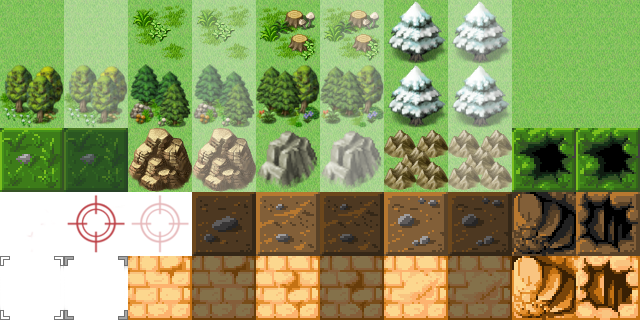
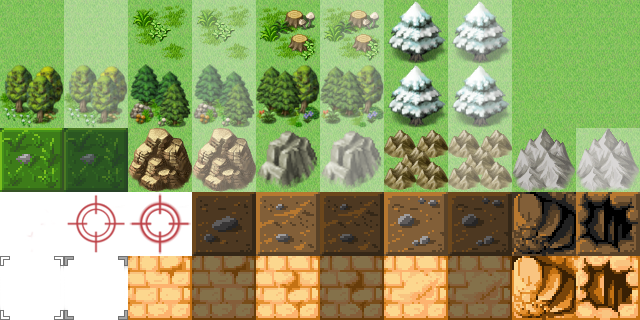
[update] range on rocket vehicle

Changed region(s): [[0.7812, 0.375, 1.0, 0.625], [0.1875, 0.625, 0.3125, 0.7812]]

diff --git a/public/lib/board.js b/public/lib/board.js
@@ -162,8 +162,8 @@
     this.grid[coor.i][coor.j].unit = undefined;
   };
 
-  Board.prototype.hasUnit = function(i, j) {
-    return this.grid[i][j].unit !== undefined;
+  Board.prototype.hasEnemyUnit = function(unit, i, j) {
+    return this.grid[i][j].unit !== undefined && this.grid[i][j].unit.color != unit.color;
   };
 
   ////////////////////////// SET UP THE GRID //////////////////////////
@@ -204,13 +204,6 @@
     a.forEach(function(coor) {
         that.grid[coor[0]][coor[1]].land = [land.grasslandForest1, land.grasslandForest2, land.grasslandForest3, land.grasslandBushes1, land.grasslandBushes2][utils.randomBoundBy(0, 5)];
     })
-    // for (var i = 0; i < this.grid.length; i++) {
-    //   for (var j = 0; j < this.grid[i].length; j++) {
-    //     if (utils.percentChance(10)) {
-    //       this.grid[i][j].land = [land.grasslandForest1, land.grasslandForest2][utils.randomBoundBy(0, 2)];
-    //     }
-    //   }
-    // }
   };
 
   Board.prototype.addRocks = function() {
@@ -219,13 +212,6 @@
     a.forEach(function(coor) {
         that.grid[coor[0]][coor[1]].land = land.grasslandRock;
     })
-    // for (var i = 0; i < this.grid.length; i++) {
-    //   for (var j = 0; j < this.grid[i].length; j++) {
-    //     if (utils.percentChance(5)) {
-    //       this.grid[i][j].land = land.grasslandRock;
-    //     }
-    //   }
-    // }
   };
 
   Board.prototype.addExplosions = function() {
@@ -296,6 +282,8 @@
       for (var j = 0; j < this.grid[i].length; j++) {
         tile = window.game.add.sprite(j * 64, i * 64, 'tiles');
         tile.frame = this.overlay[i][j].overlayFrame.default;
+        tile.alpha = 0;
+        window.game.add.tween(tile).to( { alpha: 1 }, 800, Phaser.Easing.Linear.None, true, 0, 1000, true);
         this.overlay[i][j].tile = tile;
       }
     }

diff --git a/public/lib/units/rocketVehicle.js b/public/lib/units/rocketVehicle.js
@@ -38,6 +38,44 @@
       [coor.i, coor.j + 5],
       [coor.i + 5, coor.j],
       [coor.i, coor.j - 5],
+      [coor.i - 2, coor.j + 1],
+      [coor.i - 2, coor.j - 1],
+      [coor.i + 1, coor.j + 2],
+      [coor.i - 1, coor.j + 2],
+      [coor.i + 2, coor.j + 1],
+      [coor.i + 2, coor.j - 1],
+      [coor.i + 1, coor.j - 2],
+      [coor.i - 1, coor.j - 2],
+      [coor.i - 3, coor.j + 1],
+      [coor.i - 3, coor.j - 1],
+      [coor.i + 1, coor.j + 3],
+      [coor.i - 1, coor.j + 3],
+      [coor.i + 3, coor.j + 1],
+      [coor.i + 3, coor.j - 1],
+      [coor.i - 1, coor.j - 3],
+      [coor.i - 4, coor.j + 1],
+      [coor.i - 1, coor.j + 4],
+      [coor.i + 4, coor.j + 1],
+      [coor.i - 1, coor.j - 4],
+      [coor.i + 1, coor.j - 3],
+      [coor.i - 4, coor.j - 1],
+      [coor.i + 1, coor.j + 4],
+      [coor.i + 4, coor.j - 1],
+      [coor.i + 1, coor.j - 4],
+      [coor.i - 2, coor.j + 2],
+      [coor.i - 2, coor.j - 2],
+      [coor.i + 2, coor.j + 2],
+      [coor.i + 2, coor.j - 2],
+
+      [coor.i - 3, coor.j + 2],
+      [coor.i - 3, coor.j - 2],
+      [coor.i + 3, coor.j + 2],
+      [coor.i + 3, coor.j - 2],
+
+      [coor.i - 2, coor.j + 3],
+      [coor.i - 2, coor.j - 3],
+      [coor.i + 2, coor.j + 3],
+      [coor.i + 2, coor.j - 3],
     ]
     return atkCoors.filter(function (a) {
       if (window.board.grid[a[0]] && window.board.grid[a[0]][a[1]]) {

diff --git a/public/lib/create.js b/public/lib/create.js
@@ -1,6 +1,3 @@
-// var player;
-// var platforms;
-
 var board = new window.Rumble.Board;
 var battle = new window.Rumble.Battle;
 var grid = board.grid;
@@ -11,18 +8,12 @@ var tank;
 var tile;
 
 var tween;
-var x = 100, y = 100, t = 4
 
 
 window.Rumble.SelectedUnit;
 window.Rumble.PathFinder;
 window.Rumble.AtkRangeCoors;
 
-// setInterval(function () {
-//   var su = window.Rumble.SelectedUnit;
-//   var txt = su ? (su.type + su.color) : su;
-//   console.log(txt);
-// }, 500)
 
 function create() {
   // create background
@@ -38,7 +29,8 @@ function create() {
     new window.Rumble.BazookaSoldier({x: 1 * 64, y: 6 * 64, color: "Yellow"}),
     new window.Rumble.BazookaSoldier({x: 2 * 64, y: 8 * 64, color: "Yellow"}),
     new window.Rumble.HeavyTank({ x: 1 * 64, y: 7 * 64, color: "Yellow" }),
-    new window.Rumble.RocketVehicle({ x: 1 * 64, y: 9 * 64, color: "Yellow" })
+    new window.Rumble.RocketVehicle({ x: 1 * 64, y: 9 * 64, color: "Yellow" }),
+    new window.Rumble.RocketVehicle({ x: 5 * 64, y: 5 * 64, color: "Yellow" }) // debug
   ];
   var team2 = [
     new window.Rumble.HeavyTank({ x: 2 * 64, y: 6 * 64, color: "Red" }), // debug use

diff --git a/public/lib/table.js b/public/lib/table.js
@@ -50,8 +50,8 @@
     grasslandForest3:  { default: 14, pathFinderShade: 15, type: "forest" },
     grasslandBushes1:  { default: 2, pathFinderShade: 3, type: "bushes" },
     grasslandBushes2:  { default: 4, pathFinderShade: 5, type: "bushes" },
-    grasslandRock:     { default: 22, pathFinderShade: 23, type: "rock" },
-    overlayFrame:      { default: 30, sight: 31, selected1: 40, selected2: 41 }
+    grasslandRock:     { default: 28, pathFinderShade: 29, type: "rock" },
+    overlayFrame:      { default: 30, sight: 32, selected1: 40, selected2: 41 }
   };
 
 

diff --git a/public/lib/utils.js b/public/lib/utils.js
@@ -30,7 +30,7 @@
       }
 
       var unitAtInitialPos = utils.equalCoors(ci, cj, startPos.i, startPos.j);
-      if (window.board.hasUnit(ci, cj) && !unitAtInitialPos) {
+      if (window.board.hasEnemyUnit(unit, ci, cj) && !unitAtInitialPos) {
         return; // return if at none-start position and has another blocking unit
       }
 

diff --git a/README.md b/README.md
@@ -26,6 +26,7 @@ There are four stages, each stage increases in difficulty.
 * Smooth unit interaction: can attack without reselecting unit that just moved and reselecting unit when previous selected unit has not moved
 * Units have moved or attacked controlled by you will no longer display movement and attack finder. However, anytime during your turn you may select opponent's units to see their movement and attack finder in order to make a good move.
 * HP bar width scales with unit max HP and anchored to parent sprite model.
+* Units can move past friendly units, but enemies occupying a square will block its path through that square.
 
 ### Gameplay Must-knows:
 
